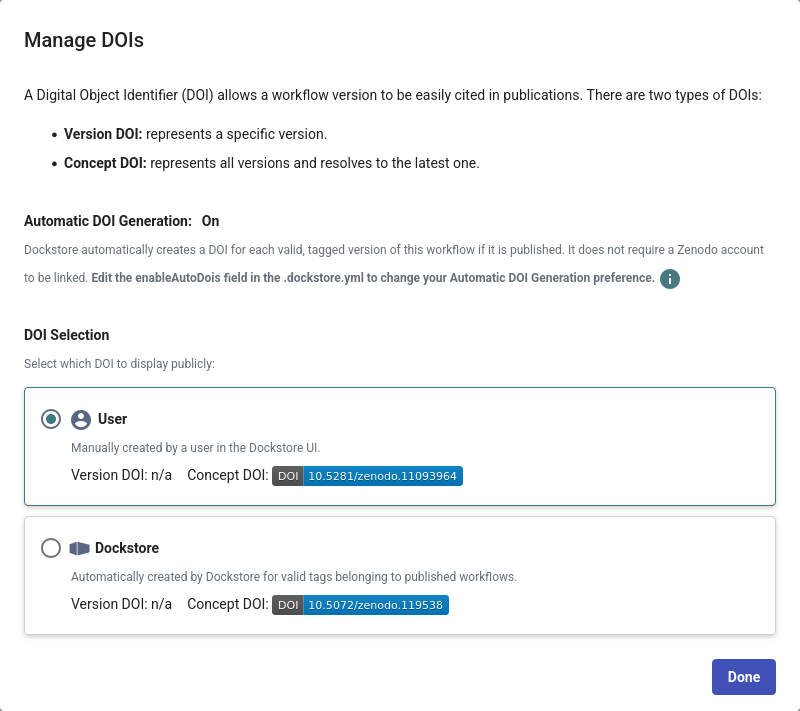
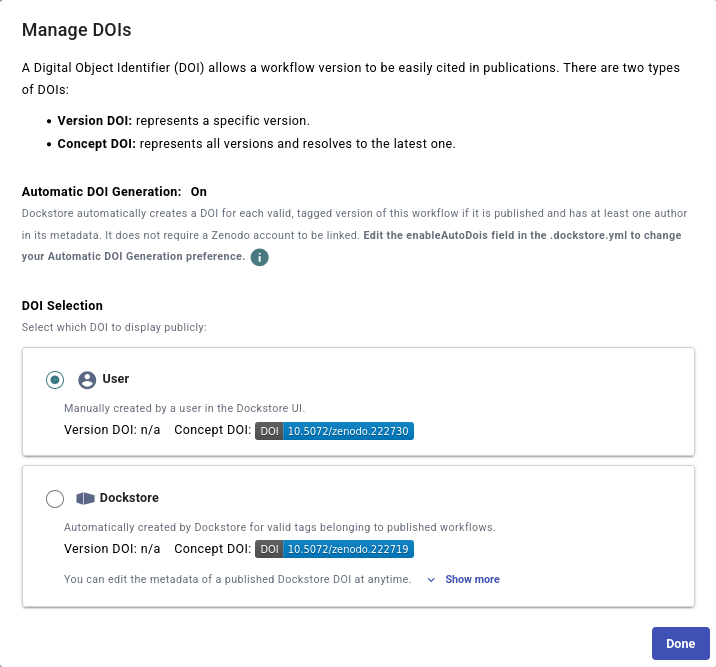
Update DOI docs

diff --git a/docs/end-user-topics/dois.rst b/docs/end-user-topics/dois.rst
@@ -43,7 +43,7 @@ Zenodo supports `DOI versioning <https://support.zenodo.org/help/en-gb/1-upload-
 In Dockstore, the concept DOI is associated with the entry as a whole, and version DOIs are associated with entry versions.
 
 Dockstore can generate DOIs for entries, as well as recognize some DOIs generated outside of Dockstore. Dockstore displays DOIs associated with entries. If you have multiple concept DOIs associated
-with a single entry, you can specify which DOI to display.
+with a single entry, you can :ref:`specify which DOI to display<choose doi display>`.
 
 Dockstore generates DOIs for entries 2 ways:
 
@@ -51,6 +51,127 @@ Dockstore generates DOIs for entries 2 ways:
 * Dockstore can automatically generate DOIs for your entries without you needing to link your Zenodo account. These DOIs are created in the Dockstore Zenodo Community
 
 In addition, Dockstore can discover DOIs created by a Zenodo-GitHub integration.
+
+The following table is an overview of the different ways Dockstore supports DOIs and their differences.
+
++--------------------------------------------------------------+-------------------------+-------------------+----------------------------------+
+| Generation Type                                              | Zenodo Account Required | Snapshot Required | Triggered by                     |
++==============================================================+=========================+===================+==================================+
+| :ref:`Manual by Dockstore User <manual generation>`          | Yes                     | Yes               | User request                     |
++--------------------------------------------------------------+-------------------------+-------------------+----------------------------------+
+| :ref:`Automatically by Dockstore <automatic doi generation>` | No                      | No                | Push of a Git tag to GitHub for  |
+|                                                              |                         |                   |                                  |
+|                                                              |                         |                   | a published Dockstore entry, or  |
+|                                                              |                         |                   |                                  |
+|                                                              |                         |                   | on publication of entry          |
++--------------------------------------------------------------+-------------------------+-------------------+----------------------------------+
+| :ref:`GitHub-Zenodo integration <github zenodo generation>`  | Yes                     | No                | GitHub release for a repository  |
+|                                                              |                         |                   |                                  |
+|                                                              |                         |                   | with a published Dockstore entry |
++--------------------------------------------------------------+-------------------------+-------------------+----------------------------------+
+
+
+.. _manual generation:
+
+Manual Generation by Dockstore User
+-----------------------------------
+
+See :doc:`Creating Snapshots & Requesting DOIs </advanced-topics/snapshot-and-doi>` for more details.
+
+For manual DOI generation on Dockstore:
+
+* You must initiate the DOI creation for each version
+
+    * More control over when DOIs are created
+    * You have to individually do it for every tag
+* The DOIs are minted in the Zenodo Dockstore community
+* Version on Dockstore is snapshotted (frozen)
+* Requires a Zenodo account that you link to your Dockstore account
+
+.. _automatic doi generation:
+
+Automatic Dockstore DOI Generation
+----------------------------------
+
+Dockstore will automatically mint a DOI for a version that corresponds to a Git tag, if:
+
+* The entry is published on Dockstore
+* The version is valid and has at least one author in its metadata
+* The tag is created after you publish the entry, or the tag is one of the 10 most recent when you publish the entry
+
+Automatically-generated DOIs:
+
+* Do not require a Zenodo account
+* Are minted in the `Zenodo Dockstore community <https://zenodo.org/communities/dockstore>`__
+
+.. note:: 
+    One rare case to potentially watch out for: if your workflows are tagged with your ORCID as an author
+    you may get a large number of notifications or workflows automatically added to your ORCID profile.
+    This will occur outside of Dockstore if you have the `ORCID Auto-Update <https://support.datacite.org/docs/datacite-and-orcid#2-orcid-auto-update>`__ feature turned on in DataCite.
+    DataCite's auto-update feature is not aware of how Zenodo groups DOIs into one overall "concept" DOI and will import each version independently.
+
+Disabling Automatic Dockstore DOI Generation
+~~~~~~~~~~~~~~~~~~~~~~~~~~~~~~~~~~~~~~~~~~~~
+
+If you wish to override and disable this feature, you can opt-out on a per-entry basis.
+
+For GitHub App entries, add the following setting to your .dockstore.yml files. This is an entry-wide setting that will affect ALL branches/tags; only set this as needed in a main branch.
+For more information, view the :doc:`full .dockstore.yml template </assets/templates/template>` for your entry which includes an explanation of this field.
+
+.. code-block:: yaml
+
+   enableAutoDois: false
+
+For hosted workflows and workflows that were registered using our :doc:`legacy registration methods </advanced-topics/legacy/workflow-legacy-registration>`, 
+navigate to your workflow and click the Manage DOIs button. The Manage DOIs dialog will open and you can click the Automatic DOI Generation toggle to disable this feature.
+
+.. figure:: /assets/images/docs/toggle-auto-doi.png
+   :alt: Disable automatic DOI generation
+
+Editing the Dockstore DOI Metadata
+~~~~~~~~~~~~~~~~~~~~~~~~~~~~~~~~~~
+
+You can edit the metadata of an automatically generated DOI on Dockstore. You must have a Zenodo account in order to edit the record on Zenodo.
+
+Click on the Manage DOIs button on your entry and navigate to the card containing your Dockstore DOI.
+
+Click the Show more button to view the instructions for how to edit the Dockstore DOI.
+
+.. figure:: /assets/images/docs/create-dockstore-doi-edit-link.png
+   :alt: Create Edit Link
+
+Click the Create Edit Link button to create a secret access link that can be used to edit the Zenodo record. Keep this link private because anyone with the link will be able to edit the record.
+
+Click on the Edit record on Zenodo link and you will be taken to Zenodo where you can edit the metadata of the record. Note that you must be logged into Zenodo in order to edit the record and publish the changes.
+
+.. figure:: /assets/images/docs/edit-record-on-zenodo.png
+   :alt: Edit Record on Zenodo Link
+
+On Zenodo, click the Edit button and edit the metadata that you wish to change. Click Publish when you are done to save the changes.
+
+Navigate back to Dockstore's Manage DOIs dialog and delete the edit link by clicking the Delete Link button. It is recommended to delete this link when you are done editing the record to 
+reduce the chances of the edit access link being used by someone else.
+
+.. _github zenodo generation:
+
+GitHub-Zenodo Generation
+------------------------
+
+Zenodo has a feature where you can link your GitHub account, then specify repositories where Zenodo automatically mints DOIs when GitHub releases are created. Note that a GitHub release is not the
+same as a Git tag; GitHub releases require Git tags, but have extra features.
+
+To set up and configure your Zenodo-GitHub integration, navigate to `Zenodo GitHub account settings <https://zenodo.org/account/settings/github/>`__.
+
+The DOIs created by this integration follow a certain pattern that Dockstore can detect. Dockstore will poll Zenodo to see if any new DOIs have been created against Dockstore entries' GitHub repositories.
+
+* Automatic
+* Only mints DOIs for GitHub releases
+* Can mint DOIs for GitHub repos without associated workflows in Dockstore
+
+    * Useful for minting DOIs for GitHub repositories that aren't workflows or tools
+    * Can mint DOIs for entries that haven't yet been registered in Dockstore
+
+.. _choose doi display:
 
 Choosing which DOI to display
 -----------------------------
@@ -69,100 +190,6 @@ Under DOI selection, click the radio button for the DOI you want to display and 
    
 .. figure:: /assets/images/docs/manage-dois.png
    :alt: Manage DOIs
-
-
-Overview of the different ways of issuing DOIs
-----------------------------------------------
-
-With the different ways Dockstore supports DOIs, it may be confusing as to how to generate DOIs for your Dockstore entries.  Following are some details on the differences.
-
-
-Creating Snapshots & Requesting DOIs
-~~~~~~~~~~~~~~~~~~~~~~~~~~~~~~~~~~~~
-
-See :doc:`Creating Snapshots & Requesting DOIs </advanced-topics/snapshot-and-doi>` for more details
-
-* You must initiate the DOI creation for each version
-
-    * More control over when DOIs are created
-    * You have to individually do it for every tag
-* The DOIs are minted in the Zenodo Dockstore community
-* Version on Dockstore is snapshotted (frozen)
-* Requires a Zenodo account that you link to your Dockstore account
-
-Automatic Dockstore DOI Generation
-~~~~~~~~~~~~~~~~~~~~~~~~~~~~~~~~~~
-
-Dockstore will automatically mint a DOI for a version that corresponds to a Git tag, if:
-
-* The entry is published on Dockstore
-* The version is valid and has at least one author in its metadata
-* The tag is created after you publish the entry, or the tag is one of the 10 most recent when you publish the entry
-
-Automatically-generated DOIs:
-
-* Do not require a Zenodo account
-* Are minted in the `Zenodo Dockstore community <https://zenodo.org/communities/dockstore>`__
-* Are editable by request to the Dockstore team
-* Will be editable via a Zenodo account in a subsequent Dockstore release
-
-If you wish to override and disable this feature, you can opt-out on a per-entry basis.
-
-For GitHub App entries, add the following setting to your .dockstore.yml files. This is an entry-wide setting that will affect ALL branches/tags; only set this as needed in a main branch.
-For more information, view the :doc:`full .dockstore.yml template </assets/templates/template>` for your entry which includes an explanation of this field.
-
-.. code-block:: yaml
-
-   enableAutoDois: false
-
-For hosted workflows and workflows that were registered using our :doc:`legacy registration methods </advanced-topics/legacy/workflow-legacy-registration>`, 
-navigate to your workflow and click the Manage DOIs button. The Manage DOIs dialog will open and you can click the Automatic DOI Generation toggle to disable this feature.
-
-.. figure:: /assets/images/docs/toggle-auto-doi.png
-   :alt: Disable automatic DOI generation
-
-One rare case to potentially watch out for: if your workflows are tagged with your ORCID as an author
-you may get a large number of notifications or workflows automatically added to your ORCID profile.
-This will occur outside of Dockstore if you have the `ORCID Auto-Update <https://support.datacite.org/docs/datacite-and-orcid#2-orcid-auto-update>`__ feature turned on in DataCite.
-DataCite's auto-update feature is not aware of how Zenodo groups DOIs into one overall "concept" DOI and will import each version independently.
-
-GitHub-Zenodo Generation
-~~~~~~~~~~~~~~~~~~~~~~~~
-
-Zenodo has a feature where you can link your GitHub account, then specify repositories where Zenodo automatically mints DOIs when GitHub releases are created. Note that a GitHub release is not the
-same as a Git tag; GitHub releases require Git tags, but have extra features.
-
-To set up and configure your Zenodo-GitHub integration, navigate to `Zenodo GitHub account settings <https://zenodo.org/account/settings/github/>`__.
-
-The DOIs created by this integration follow a certain pattern that Dockstore can detect. Dockstore will poll Zenodo to see if any new DOIs have been created against Dockstore entries' GitHub repositories.
-
-* Automatic
-* Only mints DOIs for GitHub releases
-* Can mint DOIs for GitHub repos without associated workflows in Dockstore
-
-    * Useful for minting DOIs for GitHub repositories that aren't workflows or tools
-    * Can mint DOIs for entries that haven't yet been registered in Dockstore
-
-Summary of Differences
-~~~~~~~~~~~~~~~~~~~~~~
-
-+--------------------------------+-------------------------+-------------------+-------------------------------------+
-| Generation Type                | Zenodo Account Required | Snapshot Required | Triggered by                        |
-+================================+=========================+===================+=====================================+
-| Manual by Dockstore User       | Yes                     | Yes               | User request                        |
-+--------------------------------+-------------------------+-------------------+-------------------------------------+
-| Automatically by Dockstore     | No                      | No                | Push of a Git tag to GitHub for     |
-|                                |                         |                   |                                     |
-|                                |                         |                   | a published Dockstore entry, or     |
-|                                |                         |                   |                                     |
-|                                |                         |                   | on publication of entry             |
-+--------------------------------+-------------------------+-------------------+-------------------------------------+
-| Zenodo-GitHub integration      | Yes                     | No                | GitHub release for a repository     |
-|                                |                         |                   |                                     |
-|                                |                         |                   | with a published Dockstore entry    |
-+--------------------------------+-------------------------+-------------------+-------------------------------------+
-
-
 
 .. discourse::
     :topic_identifier: 9175
